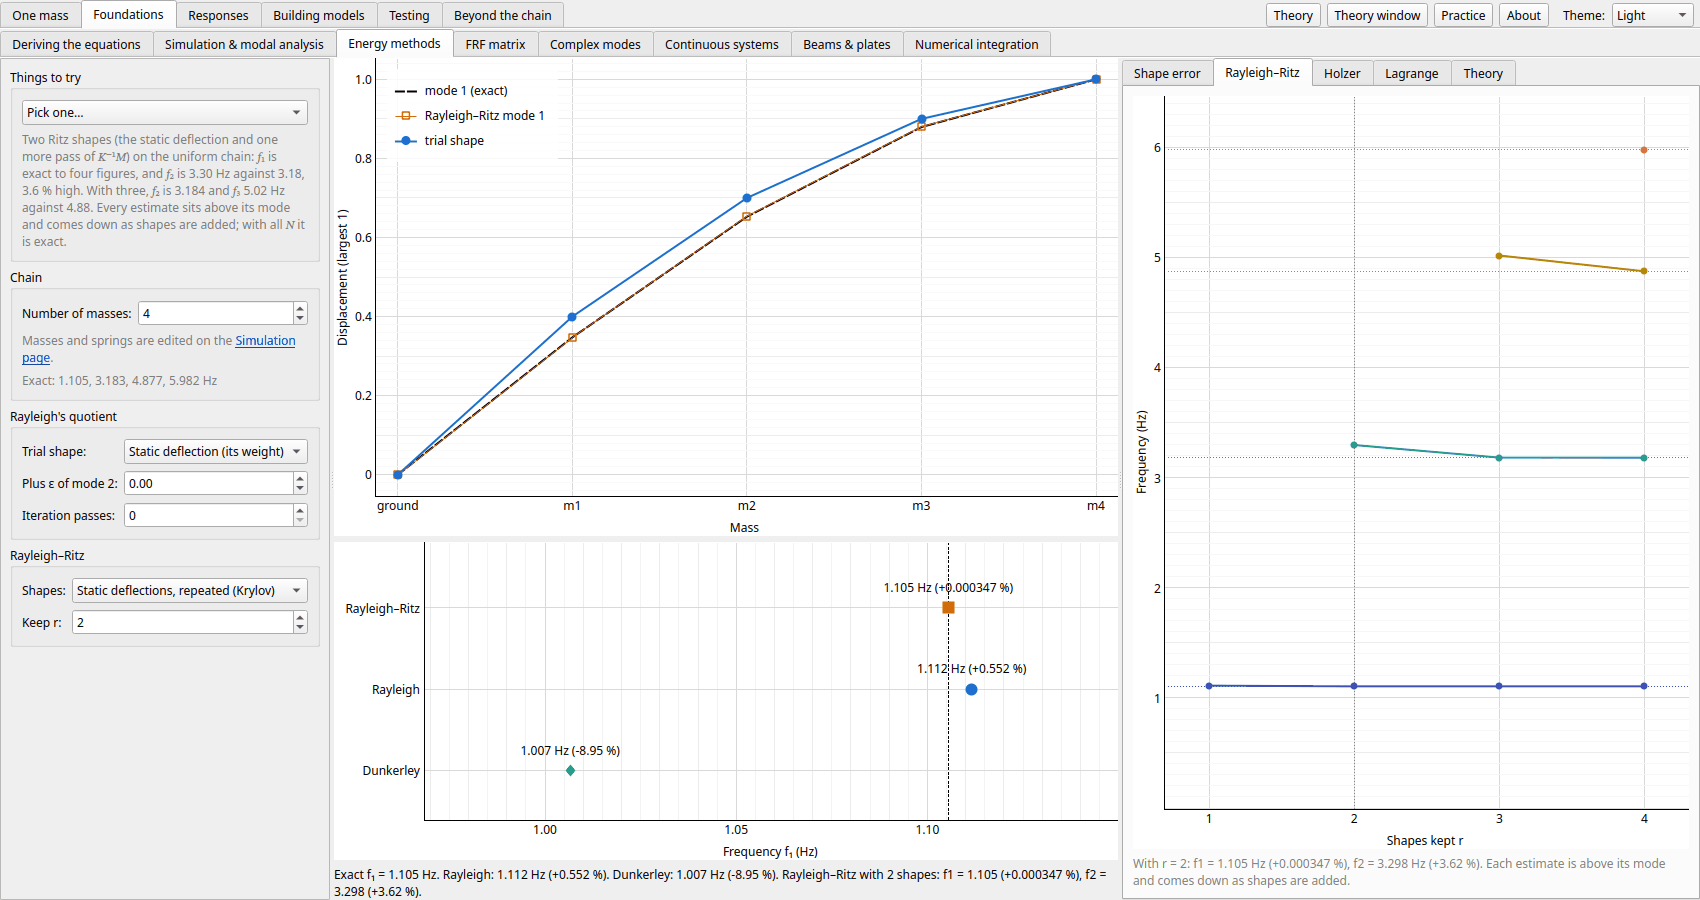
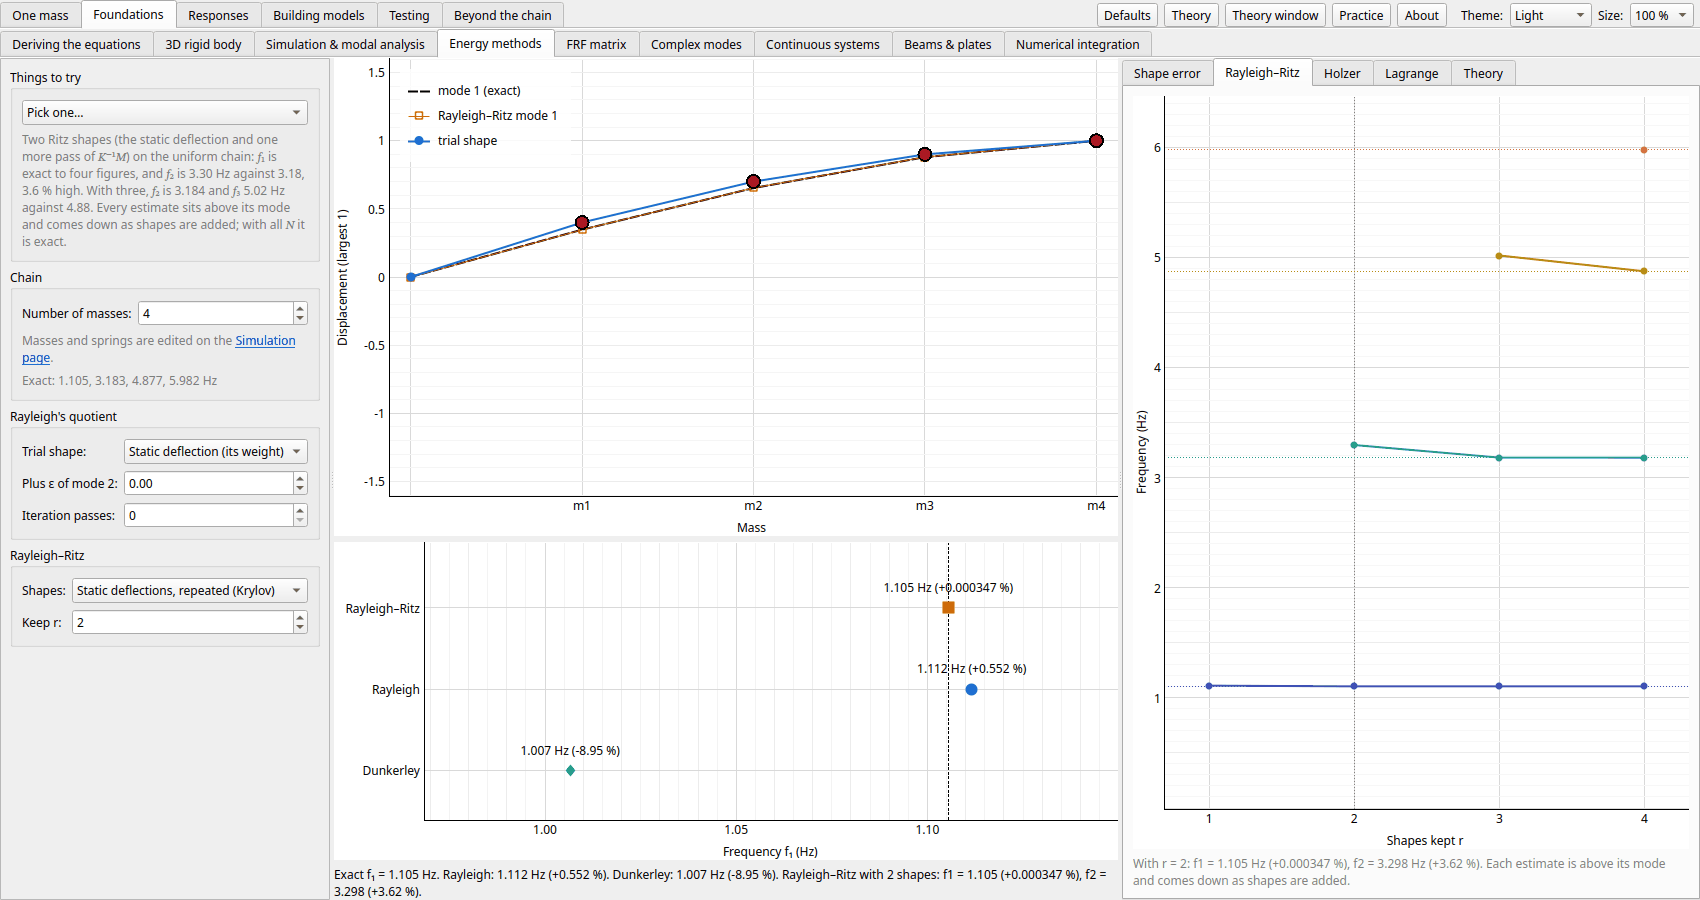
Energy methods: draw your own trial shape by dragging its points (#316 B7)

diff --git a/src/vib_tutorial/theory/energy_methods.html b/src/vib_tutorial/theory/energy_methods.html
@@ -42,6 +42,9 @@ cross terms drop out and</p>
 <m>m<sub>i</sub>ω²x<sub>i</sub></m>, are spread much like the weights. Then <m>Kv</m> is the weights,
 <m>vᵀKv = g Σ m<sub>i</sub>v<sub>i</sub></m>, and the quotient needs only the sag:</p>
 <eq>\omega_1^2 \approx g\,\frac{\sum_i m_i v_i}{\sum_i m_i v_i^2}</eq>
+<p>Or draw a shape yourself: drag any mass's point on the shape plot (the trial shape becomes <i>Your own</i>).
+However you draw it, the quotient stays at or above <m>ω<sub>1</sub>²</m>, and only mode 1's own shape reaches
+it.</p>
 
 <h3><a name="iteration"></a>Improving the shape</h3>
 <p>The static deflection under the inertia forces of a guessed motion is a better guess:</p>

diff --git a/src/vib_tutorial/gui/energy_methods.py b/src/vib_tutorial/gui/energy_methods.py
@@ -2,7 +2,8 @@
 on the Simulation page's chain.
 
 Left: the trial shape for Rayleigh's quotient (with some of mode 2 mixed in, and passes of inverse iteration),
-and the shapes Rayleigh–Ritz keeps. Centre: the trial shape against mode 1's, and every estimate of f₁ on one
+and the shapes Rayleigh–Ritz keeps. Centre: the trial shape against mode 1's (its points `DragPoint`s: dragging
+one makes the shape the reader's own, `drawn`, and the readout tracks the lowest it reaches), and every estimate of f₁ on one
 axis. Right: Rayleigh's error against the shape's, Rayleigh–Ritz's estimates as shapes are added, Holzer's
 residual, the energies Lagrange's equations start from, and the Theory.
 """
@@ -39,7 +40,7 @@ from ..core.energy_methods import (
 from ..core.model import ChainSystem
 from ..core.practice import Problem, Question, Requirement, at_most, number, pick, rounded
 from . import energy_figures, settle_plots
-from .drag import DragLine
+from .drag import DragLine, DragPoint
 from .lesson import (
     Form,
     TrialBox,
@@ -61,6 +62,12 @@ from .links import load_notes, page_link
 from .style import MAX_DOF, colors
 from .theming import add_legend, mute
 
+DRAWN = "Your own: drag its points"
+DRAWN_LIMIT = 1.5  # a drawn point's reach, of the largest the shapes are drawn at
+GRIP_TIP = (
+    "<p><b>Drag</b> a mass's point to draw your own trial shape. Rayleigh's f₁ follows as you drag, and never "
+    "drops below the exact f₁: R(v) ≥ ω₁² for any shape.</p>"
+)
 TAB_ERROR, TAB_RITZ, TAB_HOLZER, TAB_LAGRANGE = range(4)
 EPS_SPAN = 0.5  # the Shape error tab's ε runs over ±this
 
@@ -83,6 +90,7 @@ class EnergyTrial:
     masses: tuple[float, ...] = (1.0, 1.0, 1.0, 1.0)
     stiffness: tuple[float, ...] = (400.0, 400.0, 400.0, 400.0)
     holzer_hz: float = 1.0
+    drawn: tuple[float, ...] = ()  # a shape the reader drew (each mass's displacement), in place of `shape`
 
     def system(self) -> ChainSystem:
         return chain(self.masses, self.stiffness)
@@ -421,7 +429,7 @@ class EnergyMethodsPage(QtWidgets.QWidget):
         ch.row(self.chain_info)
 
         ray = Form("Rayleigh's quotient")
-        self.shape = combo([s.value for s in SHAPES], TIPS["shape"])
+        self.shape = combo([s.value for s in SHAPES] + [DRAWN], TIPS["shape"])
         ray.add("Trial shape:", self.shape, TIPS["shape"])
         self.eps = ray.number("Plus ε of mode 2:", -1.0, 1.0, 0.0, 2, "", TIPS["eps"])
         self.eps.setSingleStep(0.05)
@@ -444,6 +452,12 @@ class EnergyMethodsPage(QtWidgets.QWidget):
         self.ritz_item = pg.PlotDataItem(name="Rayleigh–Ritz mode 1", symbol="s", symbolSize=7)
         for item in (self.mode_item, self.ritz_item, self.trial_item):
             self.shape_plot.addItem(item)
+        self.drawn: np.ndarray | None = None  # the shape drawn, while the combo says so
+        self.lowest = math.inf  # the lowest f / f₁ the drawn shapes have reached, for this chain
+        self.grips = [DragPoint(GRIP_TIP, size=13) for _ in range(MAX_DOF)]
+        for grip in self.grips:
+            self.shape_plot.addItem(grip)
+            grip.dragged.connect(self._on_grip)
         self.est_plot = plot("", None, "Frequency f₁", "Hz", height=120)
         self.est_plot.setToolTip(ESTIMATES_TIP)
         self.est_plot.setMouseEnabled(x=False, y=False)
@@ -519,6 +533,11 @@ class EnergyMethodsPage(QtWidgets.QWidget):
     # ------------------------------------------------------------- inputs
     def set_system(self, system: ChainSystem, result=None) -> None:
         """The Simulation page's chain. Drawn now if the page shows, else when it does."""
+        if self.drawn is not None and self.drawn.size != system.n:
+            self.drawn = None  # a drawn shape for another number of masses
+            if self.drawing:
+                set_quietly(self.shape, 0)
+        self.lowest = math.inf
         self.system = system
         set_quietly(self.dof, system.n)
         self.r.setMaximum(system.n)
@@ -543,7 +562,7 @@ class EnergyMethodsPage(QtWidgets.QWidget):
         return EnergyTrial(
             "",
             "",
-            shape=SHAPES[self.shape.currentIndex()],
+            shape=SHAPES[self.shape.currentIndex()] if not self.drawing else Shape.STATIC,
             eps=self.eps.value(),
             iterations=int(self.iterations.value()),
             basis=BASES[self.basis.currentIndex()],
@@ -552,6 +571,7 @@ class EnergyMethodsPage(QtWidgets.QWidget):
             masses=tuple(float(m) for m in self.system.masses),
             stiffness=tuple(float(k) for k in self.system.stiffness),
             holzer_hz=self.holzer_hz.value(),
+            drawn=tuple(float(v) for v in self.drawn) if self.drawing and self.drawn is not None else (),
         )
 
     def apply_trial(self, t: EnergyTrial) -> None:
@@ -563,8 +583,10 @@ class EnergyMethodsPage(QtWidgets.QWidget):
             or not np.allclose(self.system.stiffness, system.stiffness)
         ):
             self.set_system(system)  # nobody passed it back: show it here alone
+        self.drawn = np.array(t.drawn, dtype=float) if t.drawn else None
+        self.lowest = math.inf
         for box, value in (
-            (self.shape, SHAPES.index(t.shape)),
+            (self.shape, SHAPES.index(t.shape) if not t.drawn else len(SHAPES)),
             (self.eps, t.eps),
             (self.iterations, t.iterations),
             (self.basis, BASES.index(t.basis)),
@@ -626,12 +648,44 @@ class EnergyMethodsPage(QtWidgets.QWidget):
         self._draw_lagrange()
         settle_plots(self)
 
+    @property
+    def drawing(self) -> bool:
+        return self.shape.currentIndex() == len(SHAPES)
+
+    def _base(self) -> np.ndarray:
+        """The trial shape picked, or the one drawn."""
+        s = self.system
+        if self.drawing:
+            if self.drawn is None or self.drawn.size != s.n:
+                self.drawn = trial_shape(s, Shape.STATIC)
+                self.drawn = self.drawn / np.max(np.abs(self.drawn))
+            return self.drawn.copy()
+        return trial_shape(s, SHAPES[self.shape.currentIndex()])
+
     def _trial(self) -> np.ndarray:
         s = self.system
-        x = trial_shape(s, SHAPES[self.shape.currentIndex()])
-        x = contaminated(s, x, self.eps.value())
-        x = iterate(s, x, int(self.iterations.value())) if self.held else x
-        return x / np.max(np.abs(x))
+        x = self._base()
+        eps, passes = self.eps.value(), int(self.iterations.value())
+        if self.drawing and not eps and not passes:
+            return x  # as drawn: Rayleigh's quotient doesn't mind its size
+        x = contaminated(s, x, eps)
+        x = iterate(s, x, passes) if self.held else x
+        top = float(np.max(np.abs(x)))
+        return x / top if top > 0 else x
+
+    def _on_grip(self, _x: float, y: float) -> None:
+        """A mass's point dragged: the shape is now the reader's, that mass where the pointer is."""
+        sender = self.sender()
+        i = next(k for k, grip in enumerate(self.grips) if grip is sender)
+        if not self.drawing:  # start from the shape shown, as it is drawn
+            x = self._trial()
+            phi1 = self.phi[:, 0]
+            self.drawn = -x if x @ phi1 < 0 else x
+            for box, value in ((self.shape, len(SHAPES)), (self.eps, 0.0), (self.iterations, 0)):
+                set_quietly(box, value)
+        assert self.drawn is not None, "set as the drawing starts"
+        self.drawn[i] = min(max(y, -DRAWN_LIMIT), DRAWN_LIMIT)
+        self.redraw()
 
     def _draw_main(self) -> None:
         s, f = self.system, self.f
@@ -639,15 +693,22 @@ class EnergyMethodsPage(QtWidgets.QWidget):
         idx = np.arange(n + 1)
         phi1 = self.phi[:, 0] / self.phi[np.argmax(np.abs(self.phi[:, 0])), 0]
         x = self._trial()
-        if x @ phi1 < 0:
+        if x @ phi1 < 0 and not self.drawing:
             x = -x
+        if not np.any(x):
+            x = np.ones(n) * 1e-9  # a shape drawn flat: no quotient
         self.mode_item.setData(idx, np.concatenate([[0.0], phi1]))
+        for i, grip in enumerate(self.grips):
+            grip.setVisible(i < n)
+            if i < n:  # a grip doesn't move itself: placed where the shape has it
+                grip.place(float(i + 1), float(x[i]))
         self.trial_item.setData(idx, np.concatenate([[0.0], x]))
         r = min(int(self.r.value()), n)
         wr, shapes = rayleigh_ritz(s, ritz_basis(s, BASES[self.basis.currentIndex()], r))
         y = shapes[:, 0] / shapes[np.argmax(np.abs(shapes[:, 0])), 0]
         self.ritz_item.setData(idx, np.concatenate([[0.0], y]))
         self.shape_plot.setXRange(0, n, padding=0.03)
+        self.shape_plot.setYRange(-DRAWN_LIMIT - 0.1, DRAWN_LIMIT + 0.1, padding=0)  # still under a dragged point
         self.shape_plot.getAxis("bottom").setTicks([[(i, "ground" if i == 0 else f"m{i}") for i in idx]])
 
         f_ray = math.sqrt(max(rayleigh(s, x), 0.0)) / TWO_PI
@@ -670,6 +731,12 @@ class EnergyMethodsPage(QtWidgets.QWidget):
         self.est_plot.setYRange(-0.6, 2.8, padding=0)
 
         parts = [f"Exact f₁ = {f[0]:.4g} Hz.", f"Rayleigh: {f_ray:.4g} Hz ({self._pct(f_ray)})."]
+        if self.drawing and f[0] > 0 and np.isfinite(f_ray):
+            self.lowest = min(self.lowest, f_ray / f[0])
+            parts.append(
+                f"Your shape: R(v) = ω² ≥ ω₁² whatever you draw; the lowest you've reached is "
+                f"{100 * (self.lowest - 1):+.3g} % (only mode 1's own shape gets to 0)."
+            )
         if self.held:
             parts.append(f"Dunkerley: {f_dunk:.4g} Hz ({self._pct(f_dunk)}).")
         parts.append(
@@ -702,7 +769,7 @@ class EnergyMethodsPage(QtWidgets.QWidget):
             self.err_now.setData([], [])
             self.err_note.setText("One mass: its only shape is exact.")
             return
-        base = trial_shape(s, SHAPES[self.shape.currentIndex()])
+        base = self._base()
         passes = int(self.iterations.value()) if self.held else 0
         eps = np.linspace(-EPS_SPAN, EPS_SPAN, 201)
         now = float(self.eps.value())

diff --git a/tests/test_drag.py b/tests/test_drag.py
@@ -286,3 +286,33 @@ def test_dragging_a_pole_along_the_flutter_locus_sets_the_speed(main_window, app
     for _ in range(3):
         app.processEvents()
     assert not any(d.isVisible() for d in dots)
+
+
+def test_drawing_the_energy_methods_trial_shape_keeps_rayleigh_above_f1(main_window, app):
+    """Dragging a mass's point makes the shape the reader's own (the combo says so): Rayleigh's f₁ follows and
+    stays above the exact f₁; the drawn shape survives the practice state's round trip."""
+    import math
+
+    from vib_tutorial.core.energy_methods import rayleigh
+    from vib_tutorial.gui.energy_methods import DRAWN, TWO_PI
+
+    w = main_window
+    w.resize(1280, 800)
+    p = w.energy_page
+    w.pages.setCurrentWidget(p)
+    p.shape_plot.grab()
+    for _ in range(3):
+        app.processEvents()
+    g = p.grips[1]
+    drag(p.shape_plot, scene_at(p.shape_plot, 2.0, g.pos().y()), scene_at(p.shape_plot, 2.0, -0.8), app)
+    assert p.shape.currentText() == DRAWN and p.drawn is not None
+    assert p.drawn[1] == pytest.approx(-0.8, abs=0.15)  # to a few pixels and g.pos().y() == pytest.approx(p.drawn[1])
+    f_ray = math.sqrt(rayleigh(p.system, p.drawn)) / TWO_PI
+    assert f_ray > p.f[0] and f"{f_ray:.4g} Hz" in p.readout.text() and "Your shape" in p.readout.text()
+
+    state = p.practice_state()
+    assert state.drawn == tuple(p.drawn)
+    p.load_trial(0)
+    assert p.shape.currentText() != DRAWN
+    p.load_setup({k: v for k, v in vars(state).items() if k not in ("name", "note")})
+    assert p.shape.currentText() == DRAWN and np.allclose(p.drawn, state.drawn)

diff --git a/docs/foundations.md b/docs/foundations.md
@@ -265,7 +265,8 @@ Frequencies from the energies, on the Simulation page's chain: Rayleigh's quotie
 deflection, a straight line, or a pass of inverse iteration), always above f₁ by a margin second order in
 the shape's error; Dunkerley's sum, below it; Rayleigh–Ritz with r shapes, every estimate above its mode
 and falling as r grows; and Holzer's table, stepping from the ground to the free end at a trial
-frequency until the force left over is zero.
+frequency until the force left over is zero. Drag the trial shape's points to draw your own, and watch
+Rayleigh's estimate follow and never go under f₁.
 
 ![Energy methods page, Rayleigh–Ritz on the uniform chain: Rayleigh's quotient from the static deflection gives f₁ = 1.112 Hz (+0.55 %), Dunkerley 1.007 Hz (−8.95 %) from below, and two Ritz shapes give f₁ exact to four figures and f₂ = 3.298 Hz, 3.6 % above 3.183](images/energy_methods.png)
 
